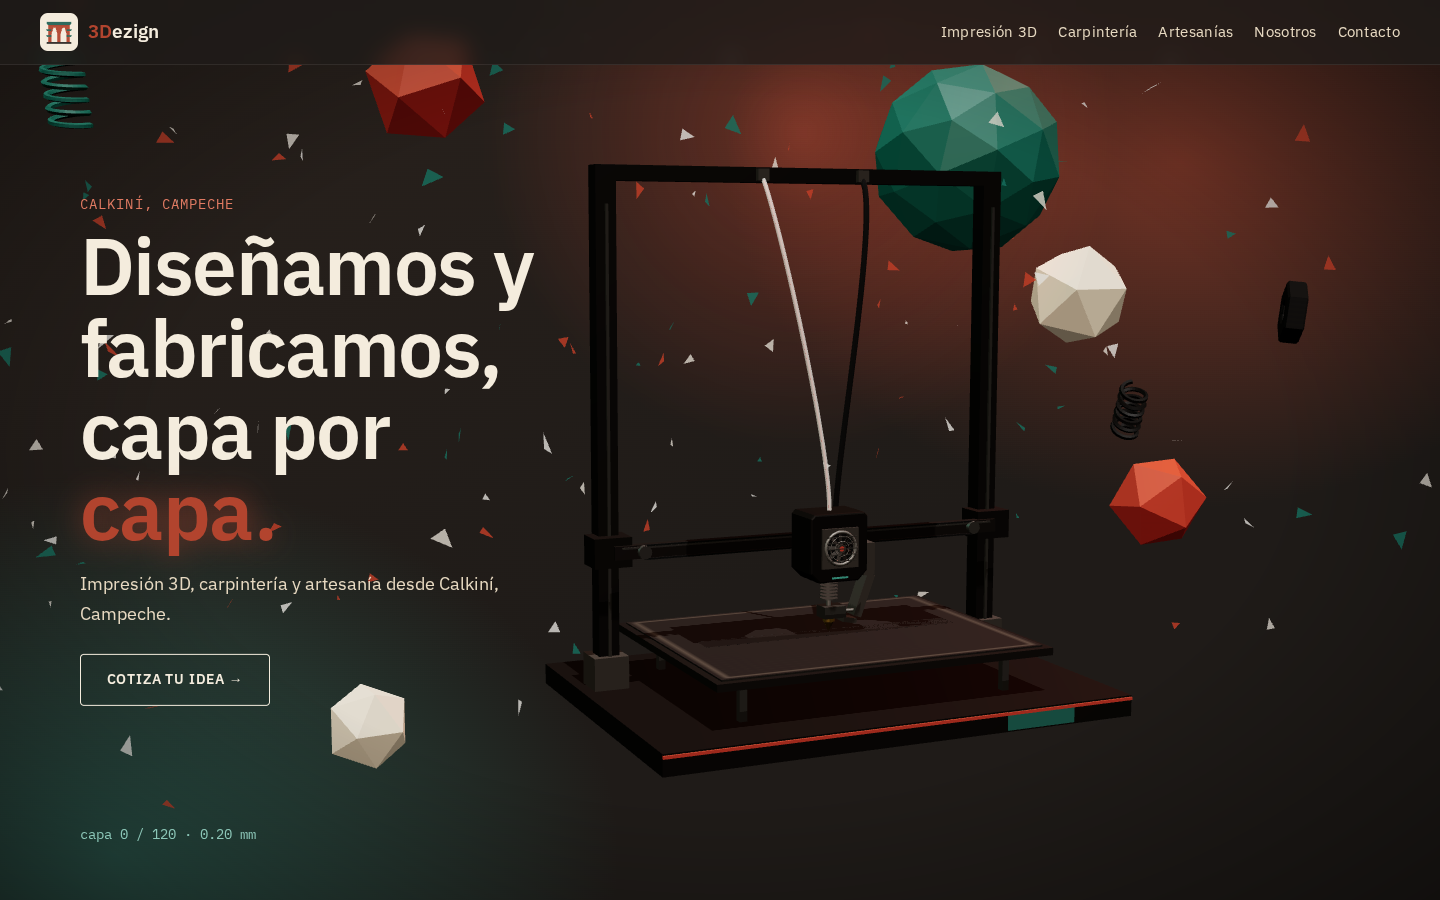
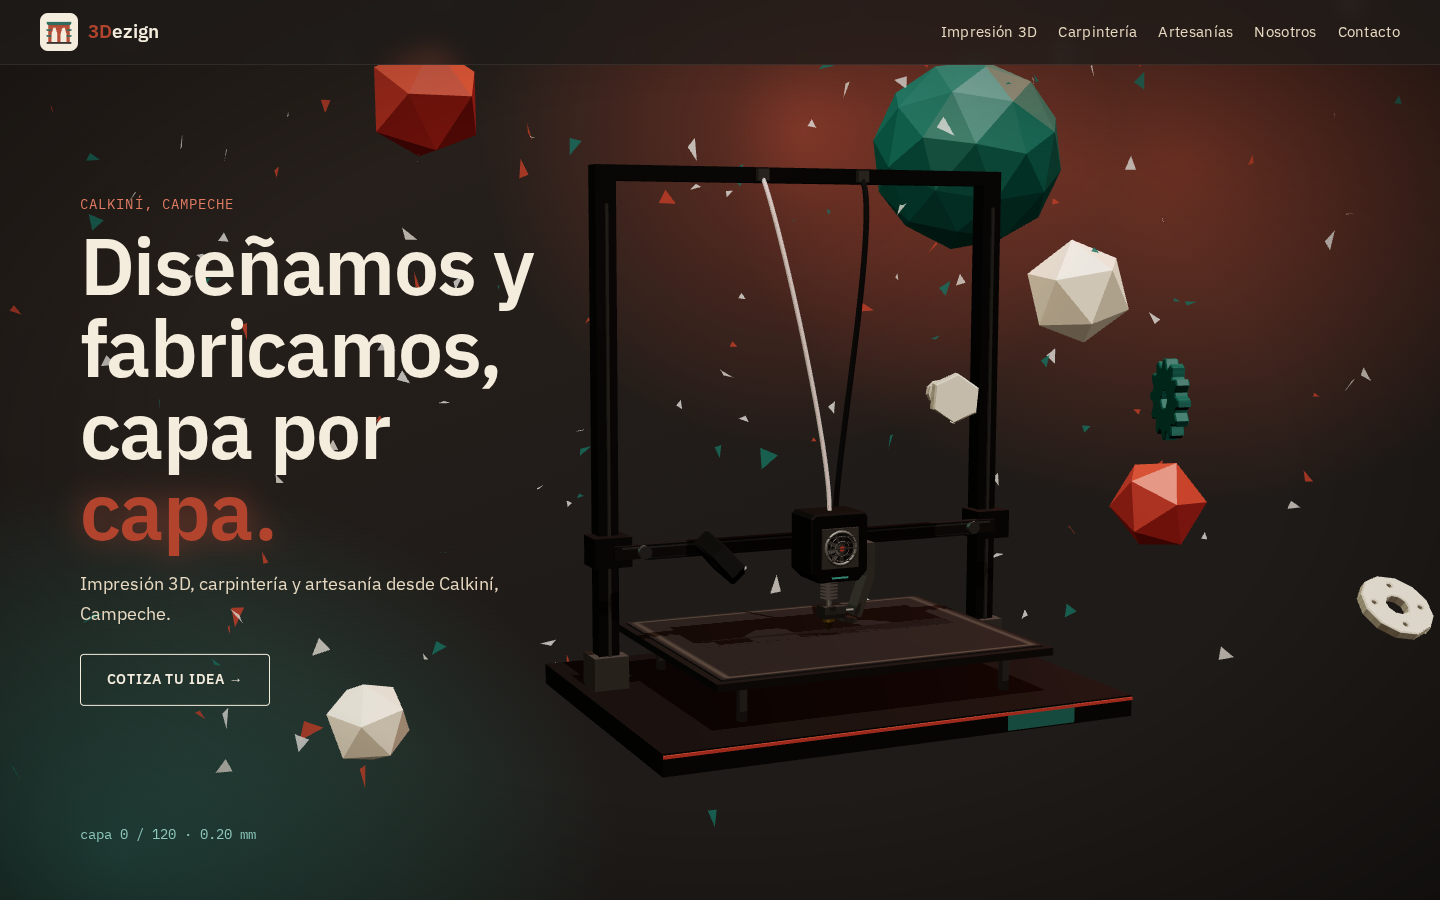
Fondo por sección con vuelo objeto→fondo (pin+scrub), loop infinito con clon del hero, menú a fondo formado, capturas

diff --git a/src/main.js b/src/main.js
@@ -5,6 +5,7 @@ import { ScrollTrigger } from 'gsap/ScrollTrigger';
 import Lenis from 'lenis';
 import { createScene } from './scene.js';
 import { createFloaters } from './floaters.js';
+import { createSectionBg } from './sectionbg.js';
 gsap.registerPlugin(ScrollTrigger);
 
 const reduced = window.matchMedia('(prefers-reduced-motion: reduce)').matches;
@@ -12,6 +13,7 @@ const marca = c.marca.nombre.replace(/^3D/, '<b>3D</b>');
 const iso = '/02_isotipo.svg';
 
 document.querySelector('#app').innerHTML = `
+<canvas id="secbg" aria-hidden="true"></canvas>
 <canvas id="floaters" aria-hidden="true"></canvas>
 <a class="skip" href="#main">Saltar al contenido</a>
 <header class="nav">
@@ -62,7 +64,10 @@ document.querySelector('#app').innerHTML = `
     <div class="canales">${c.contacto.canales.map(n=>`<span class="canal">${n} · <small>Próximamente</small></span>`).join('')}</div>
   </div></section>
 </main>
-<footer>${c.pie}</footer>`;
+<footer>${c.pie}</footer>
+${reduced ? '' : `<div class="hero-clone" aria-hidden="true" inert><img class="shot" alt="">
+  <div class="hero-copy"><span class="eyebrow">${c.contacto.ubicacion}</span><h1>${c.hero.titulo.replace(/capa\.$/, '<em>capa.</em>')}</h1><p>${c.hero.subtitulo}</p><span class="btn ghost">${c.hero.boton} <span aria-hidden="true">→</span></span></div>
+  <p class="progress">capa 0 / 120 · 0.20 mm</p></div>`}`;
 
 document.querySelector('form').addEventListener('submit', e => {
   e.preventDefault(); document.querySelector('.aviso').textContent = c.contacto.avisoForm;
@@ -84,12 +89,14 @@ if (reduced) {
   document.querySelectorAll('.reveal').forEach(el => io.observe(el));
   scene.setProgress(1); capa.textContent = 120; // el texto de cierre no se muestra: el hero ya ocupa ese espacio
 } else {
+  const pins = {};
   const lenis = new Lenis();
   lenis.on('scroll', ScrollTrigger.update);
   gsap.ticker.add(t => lenis.raf(t * 1000)); gsap.ticker.lagSmoothing(0);
   window.__lenis = lenis;
   // menú: directo a cada sección (Lenis no interfiere con el pin del hero)
-  document.querySelectorAll('.nav a[href^="#"]').forEach(a => a.addEventListener('click', e => { const el = document.querySelector(a.getAttribute('href')); if (!el) return; e.preventDefault(); lenis.scrollTo(el, { offset: -document.querySelector('.nav').offsetHeight, duration: 1.2 }); history.replaceState(null, '', a.getAttribute('href')); }));
+  document.querySelectorAll('a[href^="#"]').forEach(a => a.addEventListener('click', e => { const id = a.getAttribute('href').slice(1), el = document.getElementById(id); if (!el) return; e.preventDefault();
+    const y = id === 'hero' ? 0 : pins[id] ? pins[id].end : el; lenis.scrollTo(y, { duration: 1.2 }); history.replaceState(null, '', '#' + id); }));
   const st = ScrollTrigger.create({
     trigger: '#hero', start: 'top top', end: () => '+=' + window.innerHeight * 3,
     pin: true, scrub: 0.6,
@@ -105,6 +112,30 @@ if (reduced) {
   const fp = { v: 0 };
   ScrollTrigger.create({ trigger: document.body, start: 'top top', end: 'bottom bottom', onUpdate: self => gsap.to(fp, { v: self.progress, duration: 0.8, ease: 'power2.out', overwrite: true }) });
   gsap.ticker.add(t => { floaters.setProgress(fp.v); floaters.tick(t); });
+  // A) fondo por sección: pin ~100vh; el objeto vuela hacia cámara, se queda como fondo y luego entra el contenido
+  const bg = createSectionBg(document.querySelector('#secbg'));
+  const ids = ['impresion', 'carpinteria', 'artesanias', 'nosotros', 'contacto'];
+  // capas: fondo de color de la sección (envoltura) < canvas del objeto-fondo < contenido de la sección
+  ids.forEach(id => { const sec = document.getElementById(id), cs = getComputedStyle(sec), w = document.createElement('div');
+    w.className = 'sbg'; w.style.backgroundColor = cs.backgroundColor; w.style.backgroundImage = cs.backgroundImage;
+    sec.before(w); w.append(sec); sec.style.background = 'transparent'; sec.style.position = 'relative'; sec.style.zIndex = 2; });
+  ids.forEach(id => { pins[id] = ScrollTrigger.create({ trigger: '#' + id, start: 'top top', end: () => '+=' + innerHeight, pin: true, pinSpacing: true }); });
+  window.__pins = pins;
+  const clone = document.querySelector('.hero-clone'), shot = clone.querySelector('img.shot'), sceneCv = document.querySelector('#scene');
+  const snap = () => { if (scrollY < 2) shot.src = sceneCv.toDataURL('image/png'); }; // el clon muestra la escena en capa 0
+  setTimeout(snap, 1400); addEventListener('resize', () => setTimeout(snap, 600));
+  let jumping = false;
+  gsap.ticker.add(t => {
+    const y = lenis.scroll ?? scrollY; let act = null, q = 0;
+    for (const id of ids) { const p = pins[id]; if (y >= p.start - 1) { act = id; q = gsap.utils.clamp(0, 1, (y - p.start) / (p.end - p.start)); } }
+    const ct = clone.getBoundingClientRect().top;
+    if (ct < innerHeight * 0.6) act = null; // entrando al clon del hero: el fondo de Contacto se desvanece
+    bg.set(act, q); bg.tick(t);
+    for (const id of ids) { const w = document.querySelector('#' + id + ' .wrap'), p = pins[id]; const qq = gsap.utils.clamp(0, 1, (y - p.start) / (p.end - p.start)); w.style.opacity = y < p.start ? 0 : gsap.utils.clamp(0, 1, (qq - 0.55) / 0.35); }
+    // B) loop: al llegar al inicio del clon (más allá del pie) → arriba, capa 0, sin salto visible; nunca con un campo enfocado
+    const busy = document.activeElement && document.activeElement.closest && document.activeElement.closest('form');
+    if (!jumping && !busy && ct <= 1) { jumping = true; lenis.scrollTo(0, { immediate: true, force: true }); gsap.killTweensOf(fp); fp.v = 0; scene.setProgress(0); capa.textContent = 0; copy.style.opacity = 1; final.style.opacity = 0; ScrollTrigger.update(); requestAnimationFrame(() => { jumping = false; }); }
+  });
   // entrada del hero
   gsap.from('.hero-copy > *', { opacity: 0, y: 30, duration: 1, ease: 'power3.out', stagger: 0.12, delay: 0.2 });
   gsap.utils.toArray('.card').forEach((el, i) => gsap.set(el, { opacity: 0, y: 40 }));

diff --git a/src/sectionbg.js b/src/sectionbg.js
@@ -1,0 +1,65 @@
+// Fondo por sección: al entrar (pin + scrub), el objeto de la sección vuela desde el fondo hacia cámara,
+// crece hasta llenar el viewport y se queda como fondo desenfocado y tenue detrás del contenido.
+import * as THREE from 'three';
+import { models } from './floaters.js';
+
+const css = n => getComputedStyle(document.documentElement).getPropertyValue(n).trim();
+
+export function createSectionBg(canvas) {
+  const C = { terracota: css('--terracota'), jade: css('--jade'), arena: css('--arena'), carbon: css('--carbon'), crema: css('--crema') };
+  const mobile = innerWidth < 820;
+  const renderer = new THREE.WebGLRenderer({ canvas, antialias: !mobile, alpha: true, preserveDrawingBuffer: true });
+  renderer.setPixelRatio(Math.min(devicePixelRatio, mobile ? 1 : 1.25)); // pixelRatio limitado
+  renderer.toneMapping = THREE.ACESFilmicToneMapping;
+  const scene = new THREE.Scene(), camera = new THREE.PerspectiveCamera(38, 1, 0.1, 100); camera.position.set(0, 0, 10);
+  scene.add(new THREE.HemisphereLight(0xffffff, 0x6b5a4a, 2.2));
+  const key = new THREE.DirectionalLight(0xffffff, 2.2); key.position.set(3, 5, 6); scene.add(key);
+  const M = models(C);
+  // mapeo objeto→sección; [modelo, x, y, escala final, color opcional]. Nosotros (fondo carbón): crema / jade claro para que se vea
+  const light = '#cfe3dc';
+  const MAP = {
+    impresion: mobile ? [['gear', 0, 0.3, 7], ['nut', 0.9, -1.4, 3.2]] : [['gear', -1.2, 0.2, 7], ['gear2', 2.6, -0.6, 4.5], ['nut', 0.9, 1.8, 2.6]],
+    carpinteria: mobile ? [['bracket', 0, 0.2, 6], ['hinge', 0.6, -1.6, 3.4]] : [['bracket', -1.4, 0, 6.5], ['hinge', 2.4, 0.4, 4.5]],
+    artesanias: mobile ? [['duck', -0.2, 0.2, 5.5], ['gem', 1, -1.6, 2.6]] : [['duck', -1.8, -0.2, 5.5], ['duck', 2.6, 0.9, 3.2], ['gem', 1.4, -1.4, 2.8]],
+    nosotros: [['arch', 0, 0, mobile ? 6.5 : 7.5, C.crema, light]],
+    contacto: [['benchy', 0, 0, mobile ? 6 : 7]],
+  };
+  const groups = {};
+  for (const [sec, list] of Object.entries(MAP)) {
+    const G = new THREE.Group(); G.visible = false; scene.add(G);
+    list.forEach(([k, x, y, s, c1, c2], i) => {
+      const g = new THREE.Group();
+      M[k].forEach(([geo, c], j) => g.add(new THREE.Mesh(geo, new THREE.MeshStandardMaterial({ color: (j === 0 ? c1 : c2) || c, flatShading: true, roughness: 0.6, transparent: true }))));
+      g.userData = { x, y, s, i }; G.add(g);
+    });
+    groups[sec] = G;
+  }
+  let W = 1, H = 1;
+  function layout() { W = innerWidth; H = innerHeight; renderer.setSize(W, H, false); camera.aspect = W / H; camera.updateProjectionMatrix(); }
+  addEventListener('resize', layout); layout();
+  const st = {}; // sec → { q: progreso del vuelo 0..1, a: visibilidad }
+  for (const k in MAP) st[k] = { q: 0, a: 0 };
+  let active = null;
+  const ease = t => 1 - Math.pow(1 - t, 3);
+  function tick(t) {
+    let blur = 0, op = 0;
+    for (const [sec, G] of Object.entries(groups)) {
+      const s = st[sec], target = sec === active ? 1 : 0;
+      s.a += (target - s.a) * 0.12; if (s.a < 0.01) s.a = 0;
+      G.visible = s.a > 0; if (!G.visible) continue;
+      const e = ease(s.q), fit = mobile ? Math.min(1, W / H * 1.6) : 1;
+      G.children.forEach(g => {
+        const u = g.userData, z = THREE.MathUtils.lerp(-40, 0, e);
+        g.position.set(u.x * e * fit, u.y * e + (1 - e) * (u.i - 0.5) * 2, z);
+        g.scale.setScalar(THREE.MathUtils.lerp(0.6, u.s * fit, e));
+        g.rotation.set(0.35 + (1 - e) * 2 + Math.sin(t * 0.15 + u.i) * 0.08, t * 0.08 + u.i + (1 - e) * 3, 0.1 * u.i);
+        g.traverse(m => { if (m.material) m.material.opacity = s.a; });
+      });
+      if (sec === active) { blur = e * (mobile ? 9 : 14); op = THREE.MathUtils.lerp(0.95, 0.2, e); }
+    }
+    if (!active) op = Math.max(...Object.values(st).map(s => s.a)) * 0.2, blur = mobile ? 9 : 14;
+    canvas.style.opacity = op.toFixed(3); canvas.style.filter = `blur(${blur.toFixed(1)}px)`;
+    if (op > 0) renderer.render(scene, camera);
+  }
+  return { set(sec, q) { active = sec; if (sec) st[sec].q = q; }, tick };
+}

diff --git a/src/floaters.js b/src/floaters.js
@@ -21,7 +21,7 @@ const ext = (shape, depth, bevel = 0.02) => flat(new THREE.ExtrudeGeometry(shape
 const circlePath = (r, n = 10) => { const p = new THREE.Path(); for (let i = 0; i <= n; i++) { const a = i / n * Math.PI * 2; i ? p.lineTo(Math.cos(a) * r, Math.sin(a) * r) : p.moveTo(r, 0); } return p; };
 const at = (g, x = 0, y = 0, z = 0, rx = 0, ry = 0, rz = 0, s = 1) => { g = g.clone(); g.applyMatrix4(new THREE.Matrix4().compose(new THREE.Vector3(x, y, z), new THREE.Quaternion().setFromEuler(new THREE.Euler(rx, ry, rz)), new THREE.Vector3(s, s, s))); return flat(g); };
 
-function models(C) {
+export function models(C) {
   const M = {};
   // --- Barquito estilo "benchy" (diseño propio): casco con proa, cabina con ventanas, techo y chimenea
   const hullS = new THREE.Shape(); hullS.moveTo(-0.55, -0.25); hullS.lineTo(0.25, -0.25); hullS.quadraticCurveTo(0.6, -0.2, 0.7, 0); hullS.quadraticCurveTo(0.6, 0.2, 0.25, 0.25); hullS.lineTo(-0.55, 0.25); hullS.lineTo(-0.6, 0); hullS.closePath();
@@ -92,8 +92,8 @@ export function createFloaters(canvas, { reduced, avoid = '' }) {
   const M = models(C), mats = {};
   // cada sección tiene sus objetos: Impresión = engranes + tuerca; Carpintería = escuadra + bisagra; Artesanías = patitos + gema; Nosotros = arco maya; Contacto = Benchy
   const SEC = mobile
-    ? { hero: ['benchy', 'gear', 'duck', 'spring'], impresion: ['gear', 'nut', 'gear2'], carpinteria: ['bracket', 'hinge'], artesanias: ['duck', 'gem', 'duck'], nosotros: ['arch'], contacto: ['benchy'] }
-    : { hero: ['benchy', 'duck', 'gear', 'spring', 'nut', 'bolt', 'spring2', 'flange'], impresion: ['gear', 'nut', 'gear2', 'nut'], carpinteria: ['bracket', 'hinge', 'bracket'], artesanias: ['duck', 'gem', 'duck'], nosotros: ['arch', 'arch'], contacto: ['benchy', 'benchy'] };
+    ? { hero: ['benchy', 'gear', 'duck', 'spring'], impresion: [], carpinteria: [], artesanias: [], nosotros: [], contacto: [] }
+    : { hero: ['benchy', 'duck', 'gear', 'spring', 'nut', 'bolt', 'spring2', 'flange'], impresion: [], carpinteria: [], artesanias: [], nosotros: [], contacto: [] } // las secciones usan su fondo propio (sectionbg.js);
   const list = [], secOf = [];
   for (const [sec, ks] of Object.entries(SEC)) ks.forEach(k => { list.push(k); secOf.push(sec); });
   const BG = 0.25; // en secciones: fondo al 20 % de opacidad + desenfoque leve, el texto conserva su contraste
@@ -151,6 +151,7 @@ export function createFloaters(canvas, { reduced, avoid = '' }) {
     let cur = 'hero'; const loc = {};
     for (const [k, e] of Object.entries(secEls)) { if (!e || k === 'hero') continue; const r = e.getBoundingClientRect(); loc[k] = (H - r.top) / (r.height + H); if (r.top < H * 0.5 && r.bottom > H * 0.5) cur = k; }
     if (secEls.impresion && secEls.impresion.getBoundingClientRect().top > H * 0.5) cur = 'hero';
+    const hc = document.querySelector('.hero-clone'); if (hc && hc.getBoundingClientRect().top < H) cur = 'none';
     for (const o of objs) { const u = o.userData; if (u.sec !== 'hero') u.lp = loc[u.sec] ?? 0; u.s += ((u.sec === cur ? 1 : 0) - u.s) * 0.2; if (u.s < 0.02) u.s = 0; }
     canvas.style.filter = cur === 'hero' ? '' : 'blur(1.2px)';
   }

diff --git a/src/style.css b/src/style.css
@@ -18,8 +18,8 @@ nav a{color:var(--arena);letter-spacing:.02em;text-decoration:none;font-size:.95
 .btn{display:inline-block;background:var(--terracota);color:var(--blanco);padding:.85rem 1.5rem;border-radius:999px;text-decoration:none;font-weight:600;border:0;font:inherit;font-weight:600;cursor:pointer}
 .btn:hover{background:#9a3a27}.btn:focus-visible,a:focus-visible,input:focus-visible,textarea:focus-visible{outline:3px solid var(--jade);outline-offset:3px}
 /* HERO */
-#hero{position:relative;height:100vh;height:100svh;overflow:hidden;color:var(--crema);background:radial-gradient(45% 55% at 82% 18%,color-mix(in srgb,var(--terracota) 55%,transparent),transparent 70%),radial-gradient(50% 60% at 8% 95%,color-mix(in srgb,var(--jade) 70%,transparent),transparent 70%),linear-gradient(160deg,#2a221d,var(--carbon) 60%)}
-#hero::after{content:'';position:absolute;inset:0;pointer-events:none;z-index:1;background:radial-gradient(ellipse at center,transparent 55%,rgb(0 0 0 /.45))}
+#hero,.hero-clone{position:relative;height:100vh;height:100svh;overflow:hidden;color:var(--crema);background:radial-gradient(45% 55% at 82% 18%,color-mix(in srgb,var(--terracota) 55%,transparent),transparent 70%),radial-gradient(50% 60% at 8% 95%,color-mix(in srgb,var(--jade) 70%,transparent),transparent 70%),linear-gradient(160deg,#2a221d,var(--carbon) 60%)}
+#hero::after,.hero-clone::after{content:'';position:absolute;inset:0;pointer-events:none;z-index:1;background:radial-gradient(ellipse at center,transparent 55%,rgb(0 0 0 /.45))}
 #scene{position:absolute;inset:0;width:100%;height:100%;display:block}
 .hero-copy{position:absolute;z-index:2;left:clamp(1.2rem,6vw,5rem);top:50%;transform:translateY(-50%);max-width:30rem}
 .hero-copy h1{font-size:clamp(2.4rem,5.6vw,5rem);line-height:1.02;letter-spacing:-.02em;margin-bottom:1.1rem;color:var(--crema)}
@@ -72,3 +72,7 @@ section.s{scroll-margin-top:4rem}
 .hero-copy,.hero-final,.progress{z-index:3}
 section.s .wrap{position:relative;z-index:2}
 footer{position:relative;z-index:2}
+#secbg{position:fixed;inset:0;width:100vw;height:100vh;z-index:1;pointer-events:none;opacity:0}
+.hero-clone{display:block}.hero-clone img.shot{position:absolute;inset:0;width:100%;height:100%;object-fit:cover}
+.hero-clone .hero-copy,.hero-clone .progress{opacity:1}
+.hero-clone{height:calc(100vh + 2px)}
